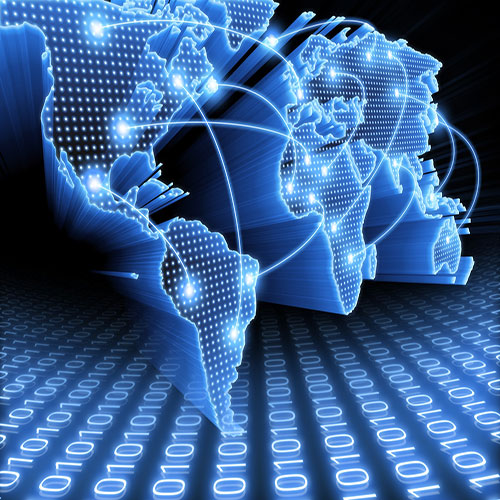
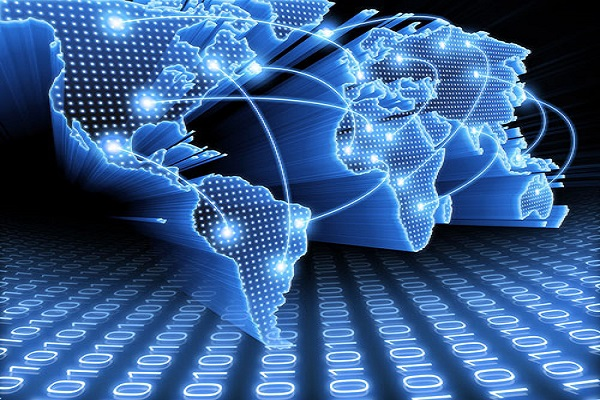
UPDATED: Imagenes y css.css
Actualizado tamaño de imagenes y reajustado su margin para que se muestre mejor tanto en pc como en móvil

diff --git a/css/css.css b/css/css.css
@@ -234,18 +234,18 @@ th{border:5px solid #3E4156;padding:3%;}
 	float:left;	
 	overflow:hidden;}
 	
-#present marquee img{z-index:-1;width:30%;height:auto;margin:8% 0% 1% 1%;border-radius:0px;}
+#present marquee img{z-index:-1;width:30%;height:auto;margin:5% 0% 1% 1%;border-radius:0px;}
 #present img:hover{
 	-webkit-transform: none;transform: none;}
 
 /* -------------------------------------- / TOWERDEFENSE */
 .tdef{
-	margin:20% 0% 0% 4%;
+	margin:5% 0% 0% 4%;
 	float:left;
 	width:20%;}
 
 /* -------------------------------------- / INFORMATION */
-.info{margin:15% 0 5% 15%;float:left;width:30%;}
+.info{margin:5% 0 5% 15%;float:left;width:30%;}
 
 /* -------------------------------------- / MILESTONES*/
 #tabMat{background:white;font-family:DC !important;}
